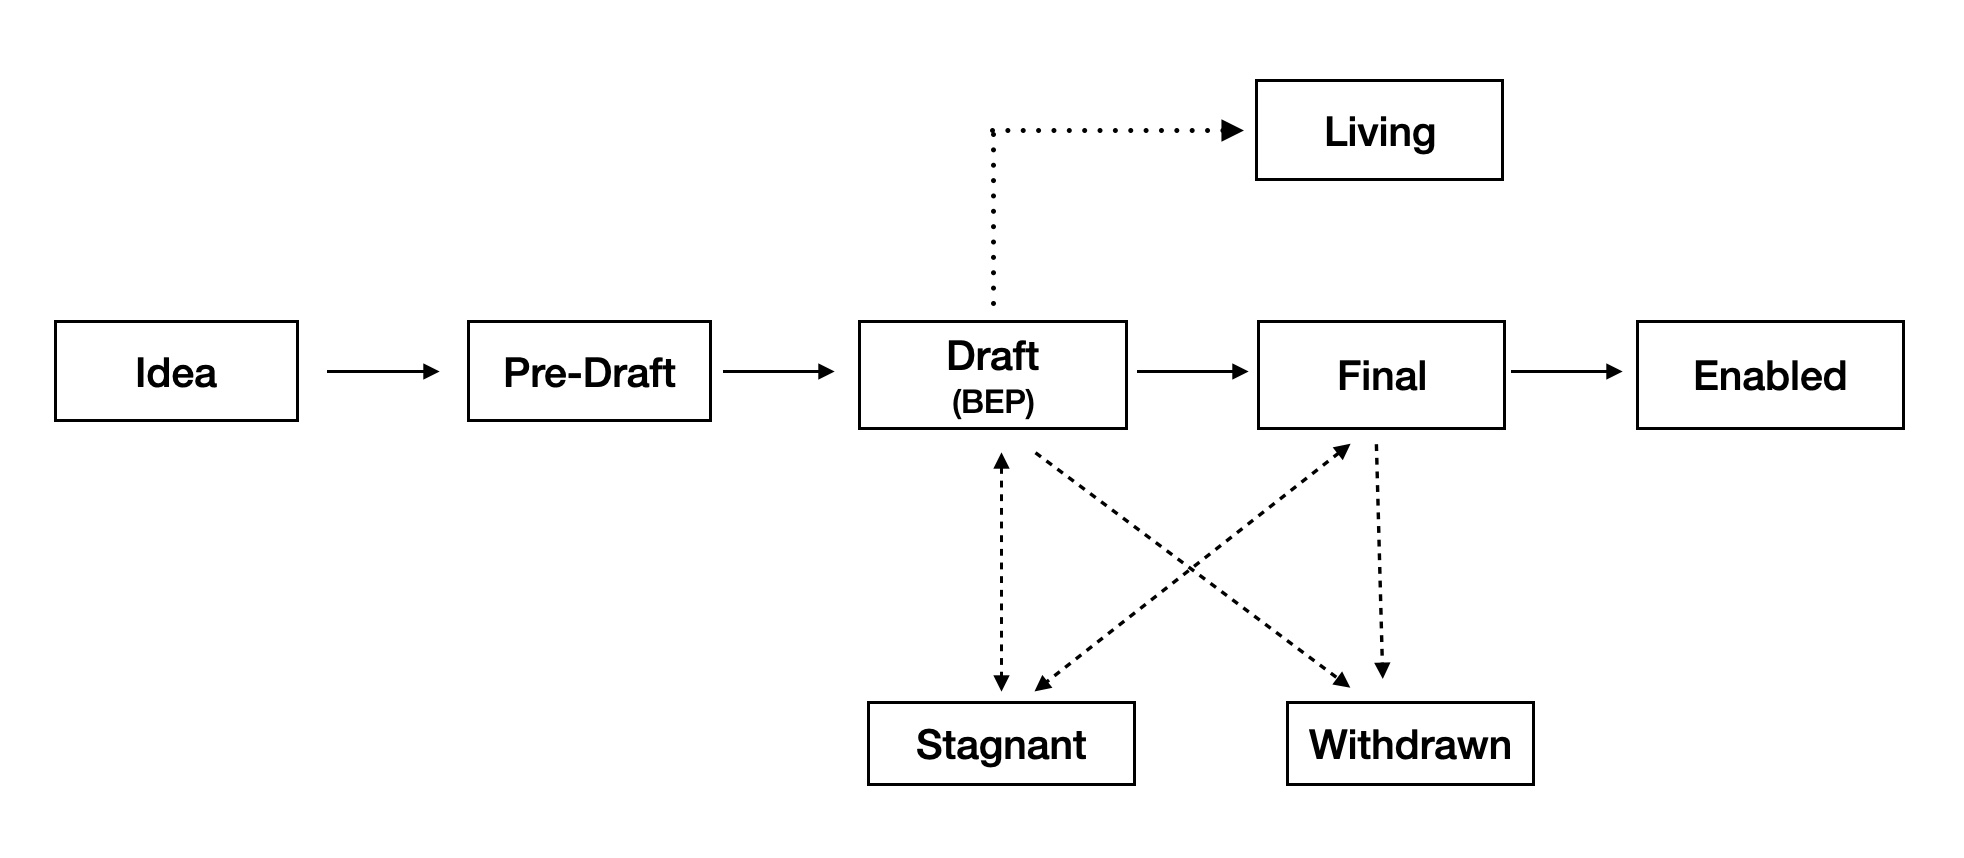
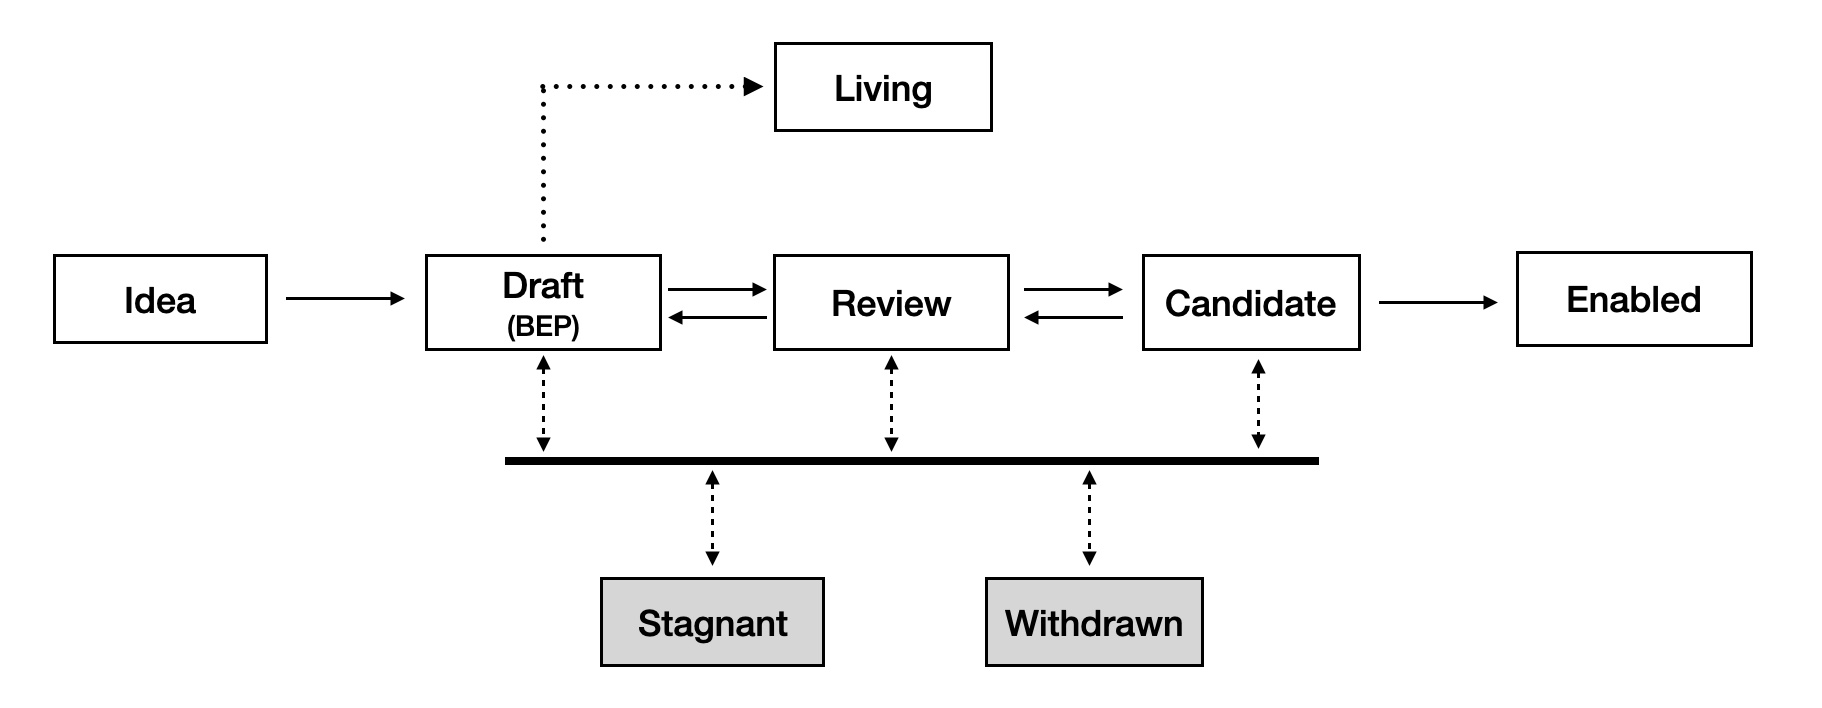
BEP-1: update workflow

diff --git a/BEP1.md b/BEP1.md
@@ -42,12 +42,10 @@ There are three types of BEP:
 
 *Figure 1: BEP workflow*
 
-Once the idea is accepted, each status change is requested by the BEP author and reviewed by the BEP editors. Use a pull request to update the status.
-
 - **Idea**: If you have an idea but not sure if it worths a BEP or not, you may discuss with the community first before you put too much effort. You may post your idea in [bnb chain forum](https://forum.bnbchain.org/) and visit the [bep-discussion channel in our discord](https://discord.gg/bnbchain) to let the community know it.
-- **Pre-Draft**: If your idea is accepted, it is still not a BEP yet. A formal document will be needed to describe your idea, the Pre-Draft document should follow the BEP format. And you need to create a pull request and the BEP editors will review it.
-- **Draft**: Once the Pre-Draft pull request is accepted by the community and reviewed by the BEP editors, it can be merged. The pull request number will be used as the BEP number, which means it is a legal BEP now. The BEP editors will add the status, then it will be recorded and maintained by the community. The BEP author should keep pushing it forward, the author can update the BEP by creating new pull requests.
-- **Final**: This proposal is finalized and a reference implementation should be provided.
+- **Draft**: If your idea is widely accepted or you have the confidence, you can draft a document following the BEP format and raise a PR in this repo. Once the PR is reviewed and merged by the BEP editors, it becomes a legal BEP. The pull request number will be used as the BEP number. And it will be recorded and maintained by the community. The BEP author should keep pushing it forward, the author can update the BEP by creating new pull requests.
+- **Review**: If the content of the BEP is ready, it will enter the Review state, then the community will review it.
+- **Candidate**: If review is passed and the BEP is accepted, it will enter Candidate state.
 - **Enabled**: This proposal is enabled in BNB Chain mainnet, if it is a hard fork, the fork number has reached.
 
 Other exceptional statuses include:
@@ -55,6 +53,8 @@ Other exceptional statuses include:
 - **Living**: A BEP will be long-term maintained, like this BEP.
 - **Stagnant**: A BEP has not been updated for more than 6 months, it will enter Stagnant state.
 - **Withdrawn**: A BEP that is dropped and will not be implemented. Usually, it is due to some prerequisite conditions that are not true anymore.
+
+To make it more flexible, BEP can be updated as long as it is not enabled yet.
 
 ## 5.  BEP Format
 It is important to keep BEP clear and well organized, BEPs need to follow this format(BEP1 is excepted):
